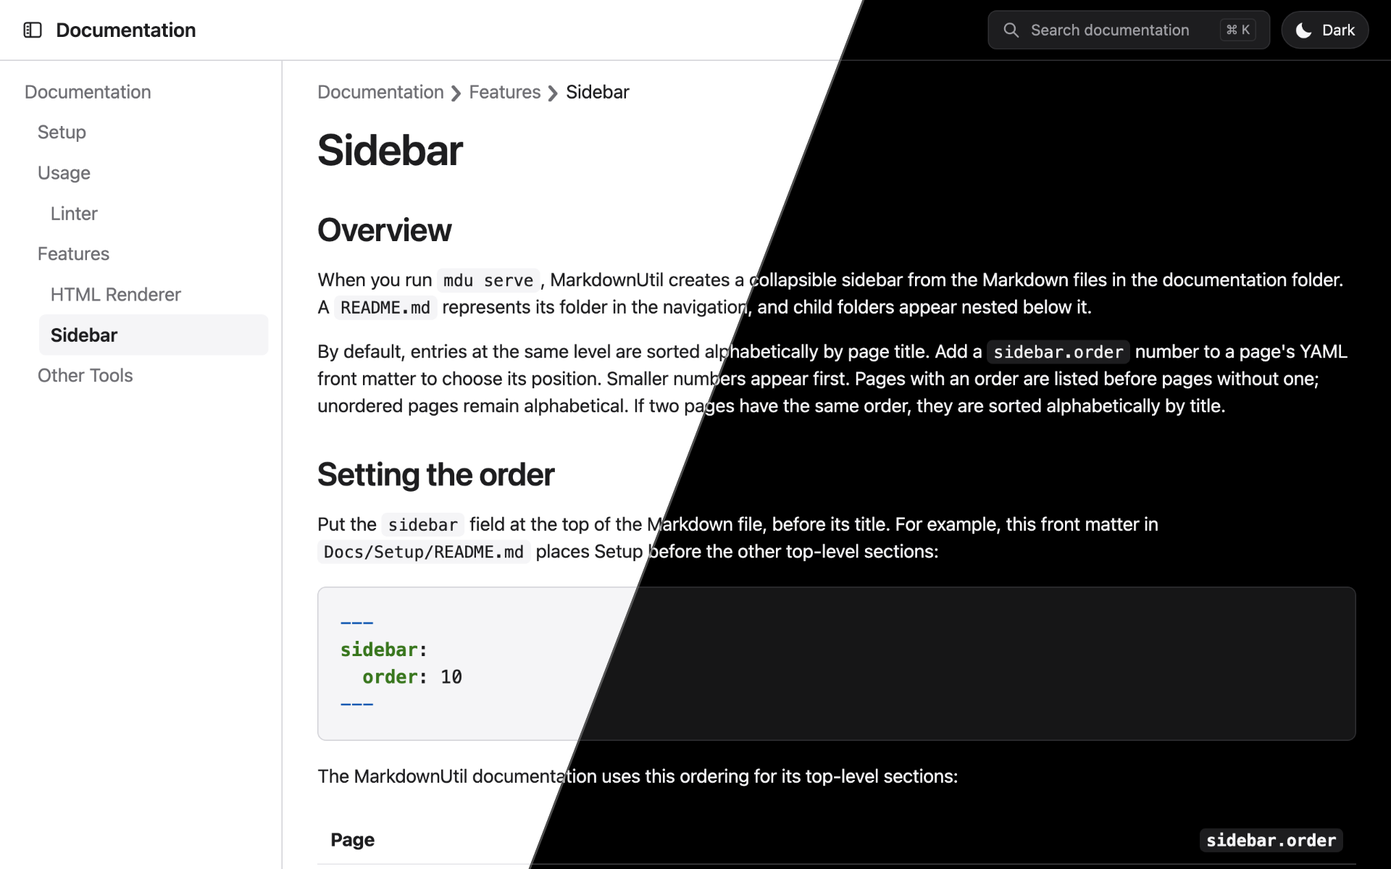
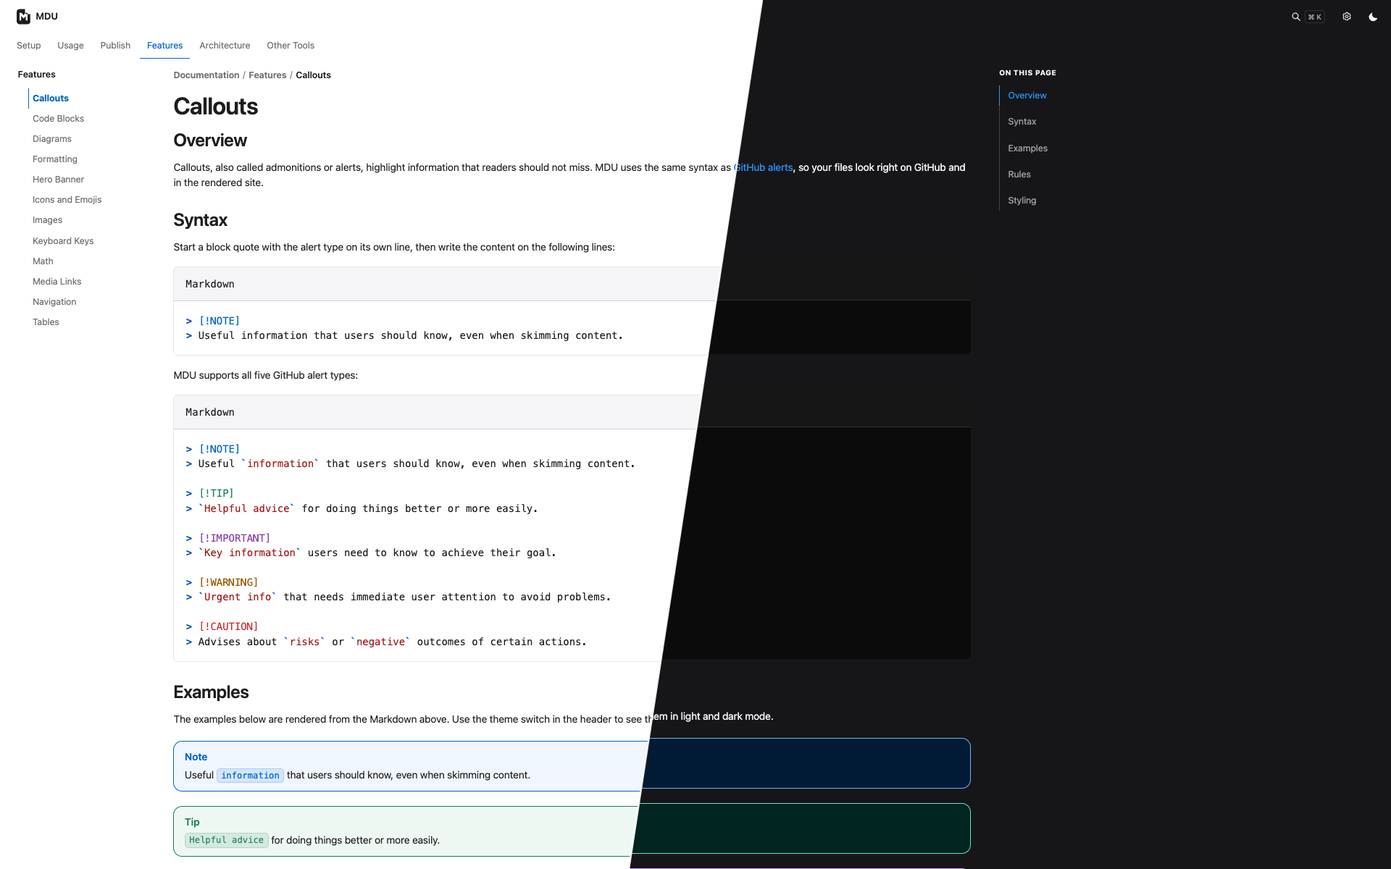
feat: rebrand project as MDU

diff --git a/Source/Markdown.Renderer/Res/Css/main.css b/Source/Markdown.Renderer/Res/Css/main.css
@@ -174,7 +174,7 @@ body {
     display: flex;
     align-items: center;
     height: var(--site-header-height);
-    padding: 0 0.75rem;
+    padding: 0 0.75rem 0 1.5rem;
     border-bottom: 0;
     background: var(--surface-header);
 }

diff --git a/Source/Markdown.Renderer/PdfRenderer.cs b/Source/Markdown.Renderer/PdfRenderer.cs
@@ -8,7 +8,7 @@ namespace Markdown.Renderer;
 
 public sealed record PdfSourceSection(string Title, string RelativeHtmlPath, string Markdown, int Depth = 0);
 
-/// <summary>Writes a paginated PDF from the HTML fragment produced by MarkdownUtil's Markdown pipeline.</summary>
+/// <summary>Writes a paginated PDF from the HTML fragment produced by MDU's Markdown pipeline.</summary>
 public sealed class PdfRenderer(HtmlRenderer htmlRenderer)
 {
     public void WritePdf(Stream output, string title, IReadOnlyList<PdfSourceSection> sections, bool includeFrontMatter = true)
@@ -903,7 +903,7 @@ internal static class PdfFileWriter
         }
         objects[pagesId] = Encoding.ASCII.GetBytes($"<< /Type /Pages /Kids [{string.Join(' ', pageIds.Select(id => $"{id} 0 R"))}] /Count {pageIds.Length} >>");
         objects[catalogId] = Encoding.ASCII.GetBytes($"<< /Type /Catalog /Pages {pagesId} 0 R >>");
-        var infoId = Add($"<< /Title ({PdfString(title)}) /Producer (MarkdownUtil) >>");
+        var infoId = Add($"<< /Title ({PdfString(title)}) /Producer (MDU) >>");
 
         using var writer = new BinaryWriter(output, Encoding.ASCII, leaveOpen: true);
         writer.Write(Encoding.Latin1.GetBytes("%PDF-1.7\n%\xE2\xE3\xCF\xD3\n"));

diff --git a/Source/Markdown.Renderer.Test/HeroTest.cs b/Source/Markdown.Renderer.Test/HeroTest.cs
@@ -21,7 +21,7 @@ public class HeroTest
               - text: Overview
                 link: ../README.md
               - text: GitHub
-                link: https://github.com/capjan/markdown-util
+                link: https://github.com/capjan/mdu
                 style: primary
             colors:
               water: "#0a3d62"
@@ -38,7 +38,7 @@ public class HeroTest
         Assert.Contains("<p class=\"hero-text\">Plain Markdown &amp; static HTML</p>", html);
         Assert.Contains("<a class=\"hero-button hero-button-primary\" href=\"Guide/Setup.html#install\">Get started</a>", html);
         Assert.Contains("<a class=\"hero-button\" href=\"../index.html\">Overview</a>", html);
-        Assert.Contains("<a class=\"hero-button hero-button-primary\" href=\"https://github.com/capjan/markdown-util\" target=\"_blank\" rel=\"noopener noreferrer\">GitHub</a>", html);
+        Assert.Contains("<a class=\"hero-button hero-button-primary\" href=\"https://github.com/capjan/mdu\" target=\"_blank\" rel=\"noopener noreferrer\">GitHub</a>", html);
         Assert.EndsWith("</section>", html);
     }
 

diff --git a/Source/Markdown.Renderer/PdfFrontMatter.cs b/Source/Markdown.Renderer/PdfFrontMatter.cs
@@ -31,7 +31,7 @@ internal static class PdfFrontMatter
         var page = new PdfPageContent(PageWidth, PageHeight);
         FillRect(page, 0, 0, PageWidth, 9, Navy);
         FillRect(page, 48, 136, 4, 160, Accent);
-        Text(page, "MARKDOWNUTIL  /  DOCUMENTATION", Left + 18, 158, 9, PdfFont.HelveticaBold, Accent);
+        Text(page, "MDU  /  DOCUMENTATION", Left + 18, 158, 9, PdfFont.HelveticaBold, Accent);
 
         var titleLines = PdfLayout.WrapText(title, 32, PageWidth - Left - Right - 50, PdfFont.HelveticaBold).ToArray();
         var titleTop = 206.0;

diff --git a/Source/MarkdownUtil/Program.cs b/Source/MarkdownUtil/Program.cs
@@ -32,7 +32,7 @@ registrations.AddScoped<ServeCommand>();
 
 using var services = registrations.BuildServiceProvider();
 
-var rootCommand = new RootCommand("Lint, render, and manage Markdown documentation.");
+var rootCommand = new RootCommand("MDU — Markdown Documentation Utility for linting, rendering, and managing Markdown documentation.");
 
 var lintCommand = new Command("lint", "Runs the linter and prints the results.");
 lintCommand.Aliases.Add("l");

diff --git a/Source/Markdown.Document.Test/UnitTestMarkdig.cs b/Source/Markdown.Document.Test/UnitTestMarkdig.cs
@@ -30,7 +30,7 @@ public class UnitTestMarkdig
         var literals = link.Descendants<LiteralInline>().ToArray();
         var text = literals[0].ToString();
         Assert.Equal("Project Website", text);
-        Assert.Equal("https://github.com/capjan/markdown-util", url);
+        Assert.Equal("https://github.com/capjan/mdu", url);
 
         
 

diff --git a/Source/Markdown.Renderer.Test/PdfRendererTest.cs b/Source/Markdown.Renderer.Test/PdfRendererTest.cs
@@ -5,7 +5,7 @@ namespace Markdown.Renderer.Test;
 public class PdfRendererTest
 {
     [Fact]
-    public void WritesMarkdownUtilContentToPdf17WithLinksAndVectors()
+    public void WritesMduContentToPdf17WithLinksAndVectors()
     {
         const string markdown = """
             # Guide

diff --git a/README.md b/README.md
@@ -1,26 +1,28 @@
-# MarkdownUtil
+# MDU
 
-[![.NET 10](https://github.com/capjan/markdown-util/actions/workflows/dotnet.yml/badge.svg)](https://github.com/capjan/markdown-util/actions/workflows/dotnet.yml)
+### Markdown Documentation Utility
+
+[![.NET 10](https://github.com/capjan/mdu/actions/workflows/dotnet.yml/badge.svg)](https://github.com/capjan/mdu/actions/workflows/dotnet.yml)
 [![NuGet](https://img.shields.io/nuget/v/MarkdownUtil)](https://www.nuget.org/packages/MarkdownUtil)
 [![License: MIT](https://img.shields.io/badge/license-MIT-blue)](https://opensource.org/licenses/MIT)
 
 **Turn a folder of Markdown files into a documentation website. One command, zero configuration.**
 
-[![A page rendered by MarkdownUtil in light and dark theme](https://raw.githubusercontent.com/capjan/markdown-util/main/.github/assets/screenshot.png)](https://capjan.github.io/markdown-util/)
+[![MDU Callouts documentation in light and dark themes, split diagonally](https://raw.githubusercontent.com/capjan/mdu/main/.github/assets/screenshot.png)](https://capjan.github.io/mdu/)
 
-Point `mdu` at your `docs` folder and get a clean static HTML site with sidebar navigation, breadcrumbs, client-side search, dark mode, and syntax highlighting. Search results jump to matching sections and highlight the found text. There is no config file to write, no theme to set up, and no Node.js or Python toolchain to install. Your files stay plain Markdown that still reads well on GitHub.
+MDU (`mdu`) turns a `docs` folder into a static HTML site with top navigation, a collapsible sidebar, breadcrumbs, client-side search, light and dark themes, and syntax highlighting. Search results jump to matching sections and highlight the found text. Add an animated hero banner or optional site configuration when you want to customize the site. Your files stay plain Markdown that still reads well on GitHub, and there is no Node.js or Python build toolchain to install.
 
-👉 **[See a live example](https://capjan.github.io/markdown-util/)**: the project documentation, rendered by `mdu` itself.
+👉 **[See a live example](https://capjan.github.io/mdu/)**: the MDU documentation, rendered by `mdu` itself.
 
 ## From Markdown to website in a minute
 
-**1. Install** (requires the [.NET 10 SDK](https://dotnet.microsoft.com/download)):
+**1. Install the `MarkdownUtil` .NET tool package** (requires the [.NET 10 SDK](https://dotnet.microsoft.com/download)):
 
 ```bash
 dotnet tool install --global MarkdownUtil
 ```
 
-**2. Write your docs** in a `docs` folder. Each folder gets a `README.md` as its page:
+**2. Write your docs** in a `docs` folder. Each folder can use a `README.md` as its section page:
 
 ```text
 docs/
@@ -38,7 +40,7 @@ docs/
 mdu serve
 ```
 
-Your site opens at <http://localhost:4173> and refreshes whenever you save a file.
+Your site opens at <http://localhost:4173> and refreshes when you save a Markdown file or linked local asset.
 
 **4. Publish it:**
 
@@ -50,20 +52,21 @@ Upload the generated `site` folder to GitHub Pages, GitLab Pages, Netlify, or an
 
 ## What you get
 
-- 🧭 **Navigation for free.** The sidebar and breadcrumbs follow your folder structure. Order pages with an optional `sidebar.order` in the front matter.
+- 🧭 **Navigation from your folders.** Top tabs, the sidebar, and breadcrumbs follow your folder structure. Use `navigation.*` front matter to order, label, or hide entries.
 - 🌗 **Light and dark theme** that follows the visitor's system setting.
 - 🔎 **Fast client-side search** with section links and highlighted matches.
 - 📱 **Responsive layout** that works on phones, tablets, and desktops.
-- 🎨 **Syntax highlighting** for code blocks.
+- 🎨 **Rich Markdown rendering.** Code highlighting, supported diagrams, math, icons, emoji, callouts, and an optional animated hero banner.
 - 🖼 **Assets included.** Linked images and files are copied to the site automatically.
-- ✅ **Built-in linter.** `mdu lint` catches broken links, wrong link casing, and missing titles before you publish.
+- ✅ **Built-in linter.** `mdu lint` catches missing titles, broken local links and assets, and path casing issues before you publish.
+- 📄 **PDF export.** Create one PDF from a documentation folder or a single Markdown file.
 
-## Why MarkdownUtil?
+## Why MDU?
 
-- **One .NET workflow for your docs.** `mdu lint`, `mdu serve`, `mdu render`, and `mdu pdf` run from the .NET 10 tool; there is no separate Node.js or Python build toolchain.
-- **Your folder structure becomes navigation.** `README.md` files represent sections, and MarkdownUtil builds the sidebar and breadcrumbs from the folder tree. Set `sidebar.order` only when you want a custom order.
-- **Catch problems before publishing.** The linter checks page titles, directory names, link casing, and missing local links or images, then points to the source file and line.
-- **Keep your content and hosting portable.** Your source stays Markdown and the generated site is static HTML you can host anywhere. The optional `sidebar.order` field is MarkdownUtil-specific.
+- **One .NET workflow for your docs.** `mdu tree`, `mdu lint`, `mdu fix`, `mdu serve`, `mdu render`, and `mdu pdf` run from the .NET 10 tool; there is no separate Node.js or Python build toolchain.
+- **Your folder structure becomes navigation.** MDU builds tabs, the sidebar, and breadcrumbs from the folder tree. Use `navigation.order` when you want a custom order.
+- **Catch problems before publishing.** The linter checks page titles, directory names, link casing, and missing local links or assets, then points to the source file and line.
+- **Keep your content and hosting portable.** Your source stays Markdown and the generated site is static HTML you can host anywhere. The optional `navigation.*` front matter and `mdu.yml` site configuration are MDU-specific.
 
 ## Commands
 
@@ -71,12 +74,12 @@ Upload the generated `site` folder to GitHub Pages, GitLab Pages, Netlify, or an
 | ----------------- | -------------------------------------------------- |
 | `mdu serve`       | Renders, serves, and live-reloads the site.        |
 | `mdu render`      | Writes the static site to `./site`.                |
-| `mdu pdf`         | Writes all detected Markdown files to `./documentation.pdf`. |
-| `mdu lint`        | Checks the docs and reports problems.              |
-| `mdu fix`         | Applies automatic fixes for supported warnings.    |
-| `mdu tree`        | Prints Markdown files under `./docs` or `./Docs` as a tree. |
+| `mdu pdf`         | Writes a documentation folder or one Markdown file to a PDF. |
+| `mdu lint`        | Checks documentation and local links.              |
+| `mdu fix`         | Migrates supported MkDocs Markdown and applies automatic fixes. |
+| `mdu tree`        | Prints detected Markdown files as a tree.          |
 
-The defaults (`./docs` in, `./site` out, port `4173`) cover the common case. Pass paths or options only when your layout differs:
+By default, commands use the only `./docs` or `./Docs` folder in the current directory. Rendering writes to `./site`; PDF export writes to `./documentation.pdf` for a folder or a file named after a single Markdown input; and the preview server uses port `4173`. If neither documentation folder exists or both do, pass the source path explicitly:
 
 ```bash
 mdu serve ./manual ./public --port 8080 --no-browser
@@ -102,7 +105,6 @@ Skip the first command if `.config/dotnet-tools.json` already exists. Run the lo
 
 ## Learn more
 
-- [Documentation](https://capjan.github.io/markdown-util/)
-- [Usage](https://github.com/capjan/markdown-util/blob/main/Docs/Usage/README.md), [linter rules](https://github.com/capjan/markdown-util/blob/main/Docs/Usage/lint/README.md), and [sidebar ordering](https://github.com/capjan/markdown-util/blob/main/Docs/Features/Sidebar.md)
-
-> **Project status:** MarkdownUtil is under active development. Expect changes before the first stable release.
+- [Documentation](https://capjan.github.io/mdu/)
+- [Usage](https://github.com/capjan/mdu/blob/main/Docs/Usage/README.md), [linter rules](https://github.com/capjan/mdu/blob/main/Docs/Usage/lint/README.md), and [navigation settings](https://github.com/capjan/mdu/blob/main/Docs/Features/Navigation.md)
+- [Features](https://github.com/capjan/mdu/blob/main/Docs/Features/README.md) and [PDF export](https://github.com/capjan/mdu/blob/main/Docs/Usage/pdf.md)

diff --git a/Docs/Features/Icons-and-Emojis.md b/Docs/Features/Icons-and-Emojis.md
@@ -1,6 +1,6 @@
 # Icons and Emojis
 
-MarkdownUtil turns shortcodes such as `:rocket:` or `:material-account-circle:` into emojis and icons while it renders your Markdown. Seven open source icon sets and GitHub-compatible emoji shortcodes are built in. You do not need to configure anything, and the rendered pages load nothing from a CDN.
+MDU turns shortcodes such as `:rocket:` or `:material-account-circle:` into emojis and icons while it renders your Markdown. Seven open source icon sets and GitHub-compatible emoji shortcodes are built in. You do not need to configure anything, and the rendered pages load nothing from a CDN.
 
 :rocket: :tada: :white_check_mark: :material-account-circle: :fontawesome-brands-github: :octicons-heart-fill-24: :simple-dotnet: :fontawesome-solid-terminal: :dashboard-home-assistant: :dashboard-github:
 
@@ -18,7 +18,7 @@ Add the same search to your own documentation with an empty `icon-search` code b
 ```
 ````
 
-MarkdownUtil writes the search script and its index to the `js` folder of the site only when a page contains an icon search.
+MDU writes the search script and its index to the `js` folder of the site only when a page contains an icon search.
 
 ## Usage
 
@@ -40,7 +40,7 @@ Ship it :rocket:
 
 Ship it :rocket:
 
-MarkdownUtil writes the Unicode character into the page, so both ways produce the same result: emojis look like the emojis of the reader's operating system, and GitHub shows them too.
+MDU writes the Unicode character into the page, so both ways produce the same result: emojis look like the emojis of the reader's operating system, and GitHub shows them too.
 
 ### Using icons
 
@@ -69,11 +69,11 @@ Icons are embedded into the page as inline SVG. They scale with the font size an
 > [!TIP]
 > :octicons-light-bulb-16: Icons in callouts take the color of the text around them.
 
-Outside of MarkdownUtil, for example on GitHub, icon shortcodes are shown as plain text.
+Outside of MDU, for example on GitHub, icon shortcodes are shown as plain text.
 
 #### Logos in color
 
-Dashboard Icons are logos of apps and self-hosted services, such as :dashboard-home-assistant: Home Assistant, :dashboard-jellyfin: Jellyfin, or :dashboard-proxmox: Proxmox. Unlike the other sets, they keep their own colors. When a logo has a light and a dark variant, MarkdownUtil adds both and shows the one that fits the current theme. Switch the theme in the header to see :dashboard-github: GitHub and :dashboard-apple: Apple change:
+Dashboard Icons are logos of apps and self-hosted services, such as :dashboard-home-assistant: Home Assistant, :dashboard-jellyfin: Jellyfin, or :dashboard-proxmox: Proxmox. Unlike the other sets, they keep their own colors. When a logo has a light and a dark variant, MDU adds both and shows the one that fits the current theme. Switch the theme in the header to see :dashboard-github: GitHub and :dashboard-apple: Apple change:
 
 ```markdown title="Markdown"
 :dashboard-github: GitHub and :dashboard-apple: Apple
@@ -81,11 +81,11 @@ Dashboard Icons are logos of apps and self-hosted services, such as :dashboard-h
 
 The variants also have their own shortcodes, for example `:dashboard-github-light:`, if a page should always show the same one.
 
-MarkdownUtil includes the Dashboard Icons whose SVG files are at most 20 KB and contain no embedded images, scripts, or links, which are about nine out of ten.
+MDU includes the Dashboard Icons whose SVG files are at most 20 KB and contain no embedded images, scripts, or links, which are about nine out of ten.
 
 ### Where shortcodes work
 
-Shortcodes work anywhere in text, for example in paragraphs, lists, tables, links, and callouts. They are not replaced inside code spans and code blocks, so you can still write about them, as this page does. A shortcode that MarkdownUtil does not know stays as it is.
+Shortcodes work anywhere in text, for example in paragraphs, lists, tables, links, and callouts. They are not replaced inside code spans and code blocks, so you can still write about them, as this page does. A shortcode that MDU does not know stays as it is.
 
 ### Styling
 
@@ -116,6 +116,6 @@ The icon sets are published by their authors under these licenses:
 - Simple Icons: [CC0 1.0](https://github.com/simple-icons/simple-icons/blob/develop/LICENSE.md), by the Simple Icons contributors
 - Dashboard Icons: [Apache License 2.0](https://github.com/homarr-labs/dashboard-icons/blob/main/LICENSE), Copyright (c) 2024 Bjorn Lammers, Meier Lukas, Thomas Camlong and Homarr Labs
 
-MarkdownUtil converts the icons for inline use: it reduces the Iconify packages to their SVG content and optimizes the Dashboard Icons with [SVGO](https://svgo.dev/). The MarkdownUtil package contains the license texts and these notices in `THIRD-PARTY-NOTICES.md`.
+MDU converts the icons for inline use: it reduces the Iconify packages to their SVG content and optimizes the Dashboard Icons with [SVGO](https://svgo.dev/). The `MarkdownUtil` package contains the license texts and these notices in `THIRD-PARTY-NOTICES.md`.
 
 Simple Icons and Dashboard Icons contain logos of products and companies. The logos remain trademarks of their owners, and the icon licenses do not grant any trademark rights. Use a logo to refer to its product, as documentation usually does, and check the brand's guidelines for other uses.

diff --git a/Docs/Features/Diagrams.md b/Docs/Features/Diagrams.md
@@ -2,10 +2,10 @@
 
 ## Overview
 
-MarkdownUtil draws diagrams from fenced code blocks while it renders your Markdown. It understands a subset of the Mermaid and PlantUML syntax and turns each diagram into static SVG that is embedded directly in the generated HTML page.
+MDU draws diagrams from fenced code blocks while it renders your Markdown. It understands a subset of the Mermaid and PlantUML syntax and turns each diagram into static SVG that is embedded directly in the generated HTML page.
 
 > [!IMPORTANT]
-> MarkdownUtil does not contain Mermaid or PlantUML, and it does not call them. It only imitates part of their syntax and draws the diagrams with its own implementation. The result therefore looks different from the originals, and not every feature is available.
+> MDU does not contain Mermaid or PlantUML, and it does not call them. It only imitates part of their syntax and draws the diagrams with its own implementation. The result therefore looks different from the originals, and not every feature is available.
 
 ### Static rendering
 
@@ -18,13 +18,13 @@ Every diagram is finished when `mdu render` or `mdu serve` writes the page:
 
 ### Portability
 
-Your diagrams stay in the standard notation, so you can leave MarkdownUtil at any time without rewriting them:
+Your diagrams stay in the standard notation, so you can leave MDU at any time without rewriting them:
 
 - Mermaid diagrams stay ordinary ` ```mermaid ` code blocks. GitHub and other Mermaid-aware tools render the same files with the real Mermaid.
 - PlantUML diagrams stay ordinary ` ```plantuml ` code blocks that PlantUML itself and PlantUML-aware tools render.
-- Context diagrams are the exception: they are a MarkdownUtil extension in ` ```context ` code blocks, which other tools show as plain code.
+- Context diagrams are the exception: they are an MDU extension in ` ```context ` code blocks, which other tools show as plain code.
 
-Mermaid flowcharts support subgraphs, and MarkdownUtil also renders the class diagram subset described below. Syntax outside the documented subsets remains a code block instead of being guessed; `mdu lint` reports unsupported Mermaid syntax.
+Mermaid flowcharts support subgraphs, and MDU also renders the class diagram subset described below. Syntax outside the documented subsets remains a code block instead of being guessed; `mdu lint` reports unsupported Mermaid syntax.
 
 ## Flowcharts
 
@@ -213,7 +213,7 @@ note right of DB : PostgreSQL
 
 ### Supported PlantUML syntax
 
-MarkdownUtil follows PlantUML's component diagram syntax, so the same source works with PlantUML itself:
+MDU follows PlantUML's component diagram syntax, so the same source works with PlantUML itself:
 
 | Element | Syntax |
 | --- | --- |
@@ -262,7 +262,7 @@ Relative `.md` destinations are changed to `.html` in the rendered site. `mdu li
 A context diagram shows one system in the center and the people and systems it works with around it.
 
 > [!NOTE]
-> Context diagrams are a MarkdownUtil extension. Neither Mermaid nor PlantUML has this diagram type, so only `mdu` renders them. GitHub and other tools show the ` ```context ` block as plain code.
+> Context diagrams are an MDU extension. Neither Mermaid nor PlantUML has this diagram type, so only `mdu` renders them. GitHub and other tools show the ` ```context ` block as plain code.
 
 A context diagram uses the flowchart syntax for systems and links, and `actor` for people:
 

diff --git a/Docs/Features/Callouts.md b/Docs/Features/Callouts.md
@@ -2,7 +2,7 @@
 
 ## Overview
 
-Callouts, also called admonitions or alerts, highlight information that readers should not miss. MarkdownUtil uses the same syntax as [GitHub alerts](https://docs.github.com/en/get-started/writing-on-github/getting-started-with-writing-and-formatting-syntax#alerts), so your files look right on GitHub and in the rendered site.
+Callouts, also called admonitions or alerts, highlight information that readers should not miss. MDU uses the same syntax as [GitHub alerts](https://docs.github.com/en/get-started/writing-on-github/getting-started-with-writing-and-formatting-syntax#alerts), so your files look right on GitHub and in the rendered site.
 
 ## Syntax
 
@@ -13,7 +13,7 @@ Start a block quote with the alert type on its own line, then write the content 
 > Useful information that users should know, even when skimming content.
 ```
 
-MarkdownUtil supports all five GitHub alert types:
+MDU supports all five GitHub alert types:
 
 ```markdown title="Markdown"
 > [!NOTE]
@@ -64,7 +64,7 @@ A callout can contain any Markdown, such as several paragraphs, lists, links, an
 
 ## Rules
 
-MarkdownUtil follows the same rules as GitHub:
+MDU follows the same rules as GitHub:
 
 - The marker must be the first line of a block quote and stand alone on that line. Text after the marker, such as `> [!NOTE] Text`, renders a regular block quote.
 - The type is not case-sensitive: `[!NOTE]`, `[!Note]`, and `[!note]` are equivalent.
@@ -74,4 +74,4 @@ MarkdownUtil follows the same rules as GitHub:
 
 ## Styling
 
-MarkdownUtil uses [Markdig's alert blocks](https://xoofx.github.io/markdig/docs/extensions/alert-blocks/) and renders the same HTML structure as GitHub: a `div` with the classes `markdown-alert` and `markdown-alert-<type>`, for example `markdown-alert-tip`, followed by a `markdown-alert-title` paragraph. The title is shown without an icon, and the colors adapt to the light and dark themes.
+MDU uses [Markdig's alert blocks](https://xoofx.github.io/markdig/docs/extensions/alert-blocks/) and renders the same HTML structure as GitHub: a `div` with the classes `markdown-alert` and `markdown-alert-<type>`, for example `markdown-alert-tip`, followed by a `markdown-alert-title` paragraph. The title is shown without an icon, and the colors adapt to the light and dark themes.

diff --git a/Docs/Usage/lint/Rules.md b/Docs/Usage/lint/Rules.md
@@ -20,7 +20,7 @@ navigation:
 | `MDU007` | `MaterialAdmonition` | Error | Material admonitions must be converted to GitHub Alerts. | [fix](../fix.md#migrating-mkdocs-material-markdown) |
 | `MDU008` | `MaterialTabs` | Error | Material tabs must be converted to headings. | [fix](../fix.md#migrating-mkdocs-material-markdown) |
 | `MDU009` | `MaterialCards` | Error | Material card grids must be converted to Markdown link lists. | [fix](../fix.md#migrating-mkdocs-material-markdown) |
-| `MDU010` | `UnsupportedMermaid` | Error | A Mermaid diagram uses syntax MarkdownUtil cannot render. | — |
+| `MDU010` | `UnsupportedMermaid` | Error | A Mermaid diagram uses syntax MDU cannot render. | — |
 | `MDU011` | `CodeAnnotations` | Error | Material code-annotation markers are unsupported. | [fix](../fix.md#migrating-mkdocs-material-markdown) |
 | `MDU012` | `MkDocsIndexPage` | Warning | Rename the MkDocs `index.md` page to `README.md`. | [fix](../fix.md#migrating-mkdocs-material-markdown) |
 | `MDU013` | `MissingSectionReadme` | Warning | A section with child pages needs a `README.md` page. | [fix](../fix.md#migrating-mkdocs-material-markdown) |
@@ -60,7 +60,7 @@ This warning appears when a section directory's `README.md` is its only Markdown
 
 ## MkDocs Material compatibility
 
-Rules `MDU007`–`MDU014` identify MkDocs-specific syntax and structure that needs migration. Run `mdu fix` to convert the supported constructs. An `MDU010` error means a Mermaid diagram uses syntax not currently implemented by MarkdownUtil; update the renderer before migrating that source.
+Rules `MDU007`–`MDU014` identify MkDocs-specific syntax and structure that needs migration. Run `mdu fix` to convert the supported constructs. An `MDU010` error means a Mermaid diagram uses syntax not currently implemented by MDU; update the renderer before migrating that source.
 
 ## Navigation front matter
 
